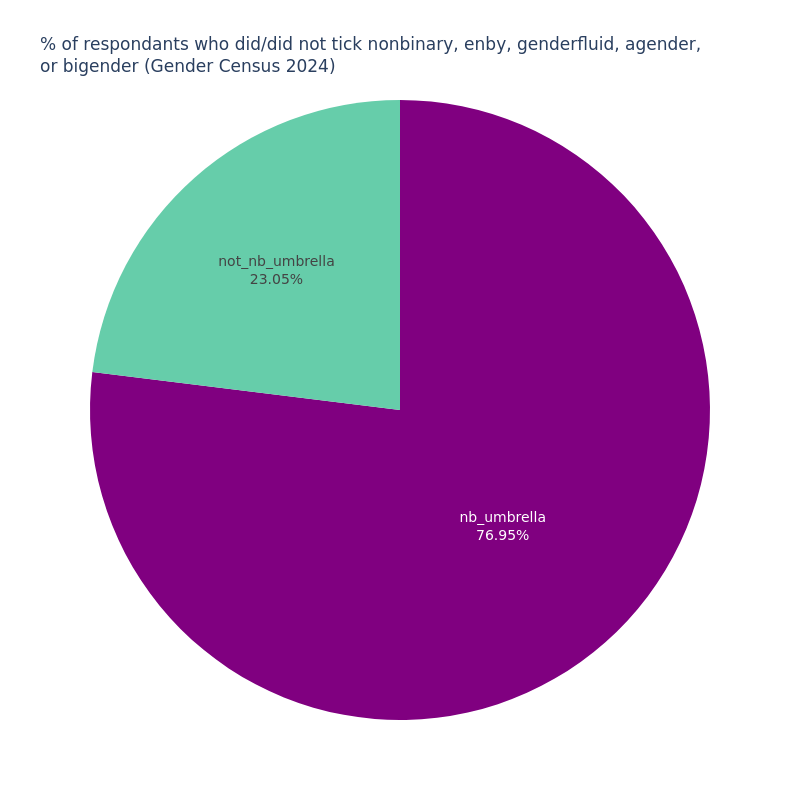
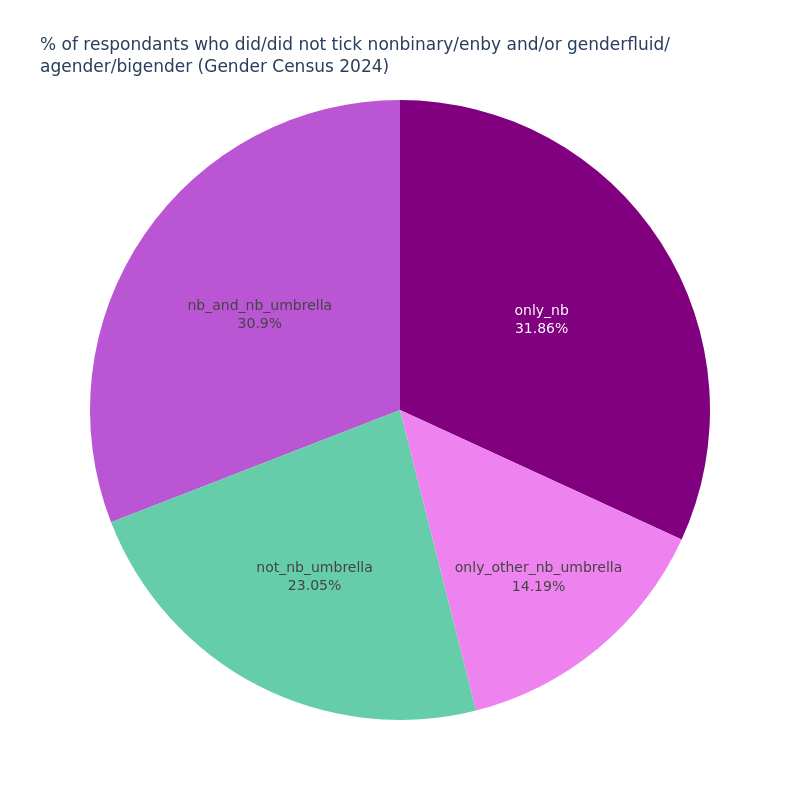
refactor nb umbrella vs non nb umbrella pie to differentiate between nb & rest of umbrella

diff --git a/visualisation/make_prepped_df.py b/visualisation/make_prepped_df.py
@@ -76,6 +76,22 @@ def count_df(input_df:pd.DataFrame, data_case:str):
         new_df["neither_trans_nor_nb"] = new_df["neither_trans_nor_nb"].where( # trans no, nb no, nb umb no
             (new_df["is_trans_tickbox"] != "Yes") & (new_df["is_nb_tickbox"] != "Yes") & (new_df["is_a_bi_fluid_gender_tickbox"] != "Yes")
         )
+    elif data_case == "tickbox_nb_no_nb_umbrella": # adding new categories we need
+        
+        for category in case_get_lists[data_case][1:]:
+            # excluding is_nb_umbrella from getting overwritten
+            new_df[category] = "Yes"
+        
+        new_df["nb_and_nb_umbrella"] = new_df["nb_and_nb_umbrella"].where( # nb yes, nb umb yes
+            (new_df["is_nb_tickbox"] == "Yes") & (new_df["is_a_bi_fluid_gender_tickbox"] == "Yes")
+        )
+        new_df["only_nb"] = new_df["only_nb"].where( # nb yes, nb umb no
+            (new_df["is_nb_tickbox"] == "Yes") & (new_df["is_a_bi_fluid_gender_tickbox"] != "Yes")
+        )
+        new_df["only_other_nb_umbrella"] = new_df["only_other_nb_umbrella"].where( # nb no, nb umb yes
+            (new_df["is_nb_tickbox"] != "Yes") & (new_df["is_a_bi_fluid_gender_tickbox"] == "Yes")
+        )
+        
 
     new_series = new_df.count() # this becomes a series
     
@@ -95,7 +111,8 @@ def count_df(input_df:pd.DataFrame, data_case:str):
     elif data_case == "tickbox_nb_no_nb": # making "is_not_nb" value
         new_series["is_not_nb_tickbox"] = len(new_df) - new_series["is_nb_tickbox"]
     elif data_case == "tickbox_nb_no_nb_umbrella": # making "is_not_nb_umbrella" value
-        new_series["is_not_nb_umbrella_tickbox"] = len(new_df) - new_series["is_nb_umbrella_tickbox"]
+        new_series["not_nb_umbrella"] = len(new_df) - new_series["is_nb_umbrella_tickbox"]
+        new_series.pop("is_nb_umbrella_tickbox")
     elif data_case in ["tickbox_non_trans","tickbox_non_nb","tickbox_non_nb_trans"]: # making "total" value
         new_series["total"] = len(new_df)
 

diff --git a/visualisation/chart_import_data.py b/visualisation/chart_import_data.py
@@ -18,7 +18,7 @@ pie_titles = {
     "tickbox_trans_cis_labels":"% of respondants who did/did not indicate cis or trans status via tickboxes <br>",
     "tickbox_trans_direction_labels":"% of trans respondants who did/did not specify their direction via tickboxes <br>",
     "tickbox_nb_no_nb":"% of respondants who did/did not tick nonbinary/enby ",
-    "tickbox_nb_no_nb_umbrella":"% of respondants who did/did not tick nonbinary, enby, genderfluid, agender, <br>or bigender ",
+    "tickbox_nb_no_nb_umbrella":"% of respondants who did/did not tick nonbinary/enby and/or genderfluid/<br>agender/bigender ",
     "tickbox_trans_nb": "% of respondants who did/did not tick trans and/or nonbinary labels <br>",
     "tickbox_trans_nb_umbrella": "% of respondants who did/did not tick trans, nb, and/or nb umbrella labels <br>"
 }
@@ -136,7 +136,11 @@ case_get_lists = {
         "is_nb_tickbox"
     ],
     "tickbox_nb_no_nb_umbrella":[
-        "is_nb_umbrella_tickbox"
+        "is_nb_umbrella_tickbox", # we're excluding this when getting for making the others
+
+        "nb_and_nb_umbrella",
+        "only_nb",
+        "only_other_nb_umbrella",
     ],
     "tickbox_non_trans":[ # everything other than trans labels we've excluded already + nb_umbrella total
         "a person/human/[my name]/just me_tickbox",
@@ -227,7 +231,7 @@ tickbox_label_cases = [
     "tickbox_trans_cis_labels",
     "tickbox_trans_direction_labels",
     "tickbox_nb_no_nb",
-    "tickbox_nb_no_nb_umbrella",
+    #"tickbox_nb_no_nb_umbrella",
     "tickbox_non_trans",
     "tickbox_non_nb",
     "tickbox_non_nb_trans",

diff --git a/visualisation/make_label_tickbox_charts.py b/visualisation/make_label_tickbox_charts.py
@@ -118,6 +118,8 @@ def make_label_tickbox_charts(input_df:pd.DataFrame):
 # TODO:
     # refactor & stream line stuff a bit better ✅
     # add label counts to column editing file ✅
+    # add a- bi- and fluid gender column separate from nb umbrella one ✅
+    # refactor tickbox_nb_no_nb_umbrella pie to differentiate between nb, other umbrella labels, & both ✅
 
     # how many respondants use only nb/nb umbrella labels, vs only other labels, vs multiple labels
         # -> to demonstrate that nb does not exist away from other queerness/transness 

diff --git a/visualisation/chart_colours.py b/visualisation/chart_colours.py
@@ -120,4 +120,6 @@ other_colours = {
     "trans_and_other_nb_umbrella": "mediumpurple",
     "nb_and_nb_umbrella": "mediumorchid",
     "only_other_nb_umbrella": "violet",
+    
+    "not_nb_umbrella": "mediumaquamarine",
 }
